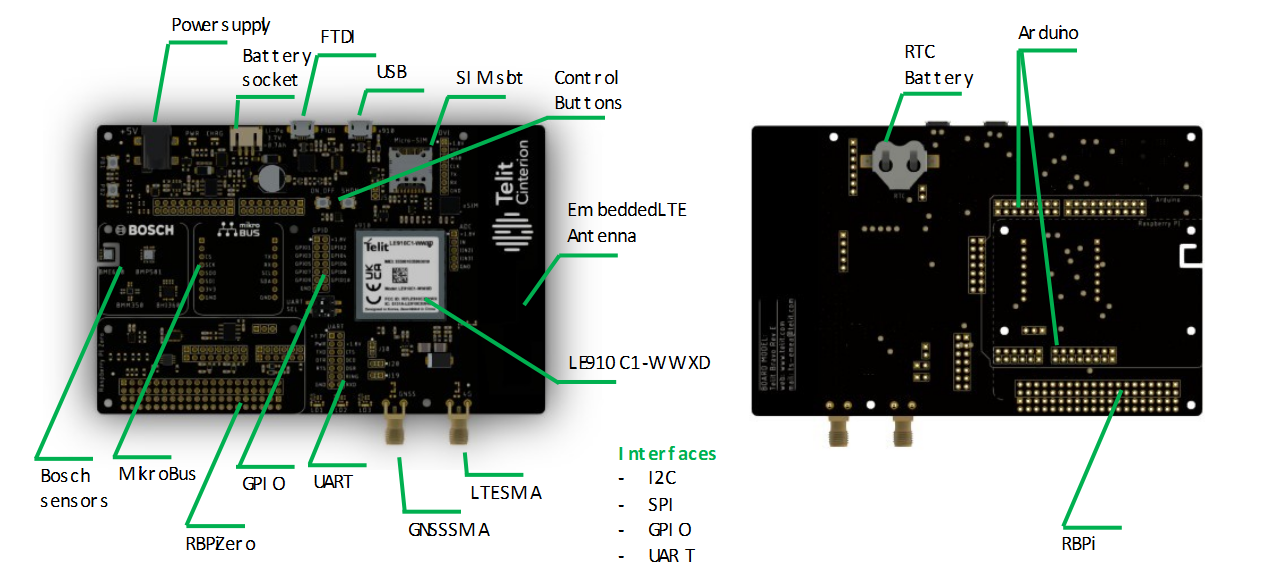
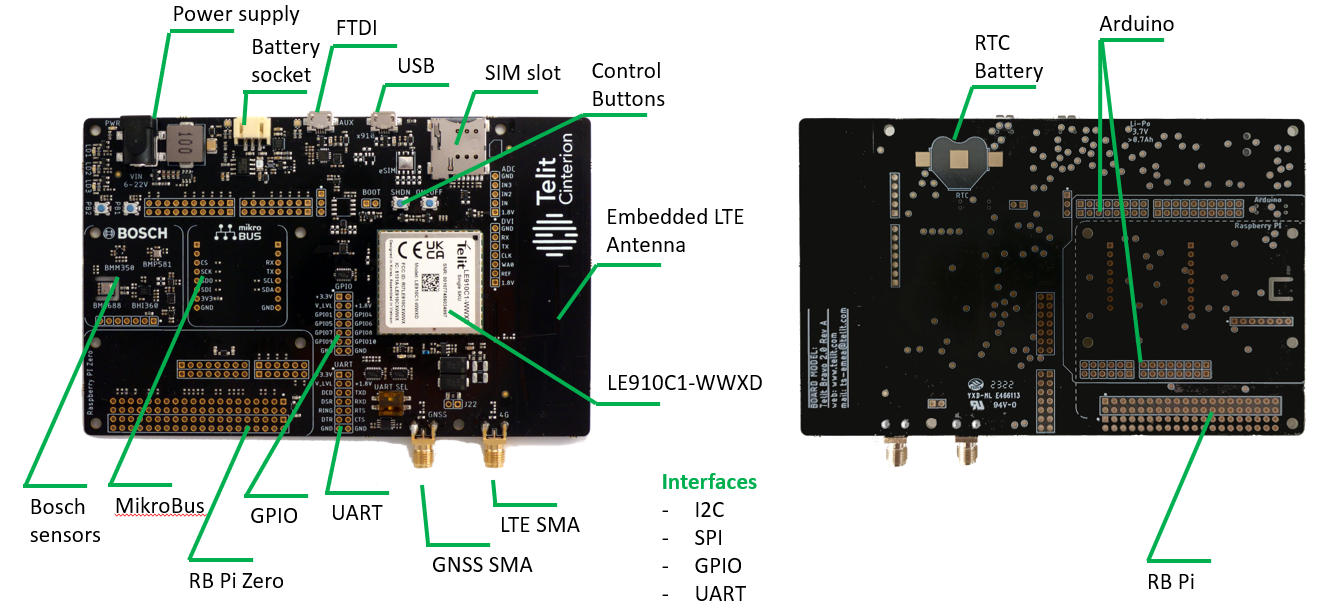
review of the guide with latest Bravo2.0

diff --git a/get-started-guide-bravo-aws.md b/get-started-guide-bravo-aws.md
@@ -1,25 +1,25 @@
 # Getting started guide for Telit Cinterion Bravo rapid development kit with AWS IoT ExpressLink
 
-# Document information
+## Document information
 
-## Naming conventions
+### Naming conventions
 
-## Glossary
+### Glossary
 | Term       | Description                                       |
 |------------|---------------------------------------------------|
 | APN        | Access Point Name - used to define the LTE access |
 | 
 
-## Revision history
+### Revision history
 
 | Version | Date       | Notes       |
 |---------|------------|-------------|
 | 1.0     | 2023-03-06 | First issue |
 
 
-# Overview
+## Overview
 
-# Hardware Description
+## Hardware Description
 
 Bravo development kit with AWS IoT Expresslink LE910C1-WWXD comes with a variety of hardware components and features. 
 1. LE910C1-WWXD AWS LTE Cat.1 modem with pre-injected credentials and ExpressLink qualified firmware
@@ -39,11 +39,10 @@ Bravo development kit with AWS IoT Expresslink LE910C1-WWXD comes with a variety
 1. on-off and reset buttons
 1. SIM slot
 
-The following image schematizes the main components. 
-![Alt text](images/bravo-interfaces.svg)
+The following image schematizes the main components.
+![Alt text](images/bravo-interfaces.png)
 
-
-## Datasheet
+### Datasheet
 
 You can find the Bravo AWS product brief, the FAQ and the Quick start guide here: https://www.telit.com/bravo-evk-download-zone/
 
@@ -51,7 +50,7 @@ Some of the guides and manuals require login access. Please register here https:
 
 When you fill up the form, if you do not have a Telit Cinterion Point of Contact, please specify **Bravo AWS IoT ExpressLink**
 
-## Standard kit Contents
+### Standard kit Contents
 
 Bravo AWS IoT ExpressLink comes with a set of accessories to simplify the developer experience without the need of third party components.
 
@@ -63,7 +62,7 @@ Content of the package:
 1. SIM card
 1. BERG connector kit
 
-## User Provided items
+### User Provided items
 
 You need to connect the Bravo with AWS IoT ExpressLink to a host processor.
 As a mere example you can use:
@@ -72,31 +71,42 @@ As a mere example you can use:
 * PC (Windows/Linux/Mac)
 * Power adapter, barrel center positive 2.1 mm / 5mm with 10W min e.g. https://www.amazon.com/SoulBay-Universal-Multi-Voltage-Selectable-Electronics/dp/B01N2K48HR/
 
-
-
-## 3rd Party purchasable items
+### 3rd Party purchasable items
 
 Additional MikroBus sensors and peripherals to complement the existing range of embedded sensors
 
+## Set up your hardware
 
-
-# Set up your hardware
-
-In this get started example we suggest to use a PC for a quick check of the capabilities of Bravo AWS IoT ExpressLink. 
+In this get started example we suggest to use a PC for a quick check of the capabilities of Bravo AWS IoT ExpressLink.
 
 However, any other external processor can be connected to the Bravo board: Follow the Bravo get started guide to configure appropriately.
 Please refer to please see https://www.telit.com/bravo-evk-download-zone/ doc: Telit_Bravo_Quick_Start_Guide for full details on how to connect to the Bravo Board
 
+When using the PC, configure the DIP switch as shown in the table
+
+| Switch # | off |  on |
+|----------|-----|-----|
+| 1        |  x  |     |
+| 2        |     |  x  |
+
+To locate the DIP switch please refer to the picture ![DIP switch configuration](images/switch_conf.png)
+
+In case you want to use the Raspberry, this is the configuration of the DIP Switch
+
+| Switch # | off |  on |
+|----------|-----|-----|
+| 1        |     |  x  |
+| 2        |  x  |     |
 
 1. plug the SIM card provided, which has (almost) global coverage. If you are willing to use a different SIM card please make sure your region/country supports LTE Cat.1 connectivity and SIM PIN is disabled
-2. connect the Bravo board to your PC
+2. connect the Bravo board to your PC to the AUX micro USB
+![USB and SIM connection](images/connect-sim.png)
+
 3. connect the power supply  
 4. press and hold for 5 seconds the on/off button 
 5. on Windows, take note of the com ports and make sure you connect to the first com port available. Please see https://www.telit.com/bravo-evk-download-zone/ doc: Telit_Bravo_Quick_Start_Guide section 3
 
-
-
-# Set up host machine
+## Set up host machine
 
 To establish a serial connection between your host machine and the *Bravo AWS IoT ExpressLink*, you must install the USB to UART Bridge Virtual Communication Port drivers. You can download these drivers from [Telit IoT developer Resources - USB Drivers](https://www.telit.com/evkevb-drivers/). For more information, see the driver user guide included in the zip archive. 
 Open a terminal application for your host machine (e.g., TeraTerm for Windows, CoolTerm for Mac) and select the port corresponding to the evaluation kit. Configure the terminal application as follows:
@@ -106,62 +116,73 @@ Open a terminal application for your host machine (e.g., TeraTerm for Windows, C
 | Bits:            | 8             |
 | Parity:          | None          |
 | Stop:            | 1             |
-| Flow control:	   | None          |
+| Flow control:    | None          |
 | Local Echo:      | Yes           |
-
 
 For a quick check, in the terminal window type: `AT` followed by `<return>`. If you receive the answer `OK`, Congratulations! You have successfully connected the evaluation kit to your host machine.
 
-Keep the terminal open, as it is needed for subsequent steps.
+### Mobile Network Operator specific configurations
+The Bravo LE910C1-WWXD is a worldwide module capable of connecting to a comprehensive range of Mobile Network Operators (MNO).
 
-# Raspberry setup
+However, some MNOs require special configuration for the module to properly work on their network.
+
+Make sure that your device is configured for the correct Mobile Network Operator.
+
+Issue:
+
+* `AT+DIAG TELIT AT#FWSWITCH=40` for a generic operator
+* `AT+DIAG TELIT AT#FWSWITCH=0` for AT&T
+* `AT+DIAG TELIT AT#FWSWITCH=1` for Verizon Wireless
+
+The module will reboot and after a short time it will be possible to connect again
+
+After the reboot, please configure the APN `AT+CONF APN=nxt20.net`
+
+## Raspberry setup
+
 Make note of the GPIOs exposed on the Raspberry Pi pinout
 
-| Bravo Pinout | Signal | I/O |
-|--|--| --|
-| 15 | TX | Output |
-| 14 | RX | Input |
-| 23 | RESET | Output |
-| 27 | EVENT | Input |
-| 22 | WAKE | Output |
+| Bravo Pinout | Signal | I/O | Raspberry Pin |
+|--|--|--| --|
+| N15 | TX | Output | RPI TX |
+| M15  | RX | Input | RPI RX |
+| C11 - GPIO 04 | RESET | Output | GPIO 24 |
+| L15 - GPIO 09 | EVENT | Input | GPIO 25 |
+| G15 - GPIO 10 | WAKE | Output | GPIO 26 |
 
 Make sure your script is using the right GPIOs to interact with Bravo ExpressLink
 
-# Run the quick connect demo application
+## Run the quick connect demo application
 
 The Quick Connect demo application allows you to establish a connection with AWS IoT, all in the space of a few minutes; no dependencies to install, no source code to download and build, and no AWS account required. To run the demo, follow the below steps:
 
-1.	If you opened a terminal application in the previous step, be sure to disconnect that application from the serial port. 
-1.	Download the Quick Connect executable:
-    1.	[Download for Mac](https://quickconnectexpresslinkutility.s3.us-west-2.amazonaws.com/QuickConnect_v1.9_macos.x64.tar.gz)
-    1.	[Download for Windows](https://quickconnectexpresslinkutility.s3.us-west-2.amazonaws.com/QuickConnect_v1.9_windows.x64.zip)
-    1.	[Download for Linux](https://quickconnectexpresslinkutility.s3.us-west-2.amazonaws.com/QuickConnect_v1.9_linux.x64.tar.gz)
-1.	Unzip the package. You will see a config.txt file. Open this and enter the serial port corresponding to the evaluation kit (for example, COM14, /dev/cu.usbserial-12345, and so on) in the serial port field.
-1.	For wifi kits, enter your wifi credentials in the SSID and Passphrase fields. For cellular kits, you may leave this blank.
-1.	Run the "Start_Quick_Connect" executable.
+1. If you opened a terminal application in the previous step, be sure to disconnect that application from the serial port.
+1. Download the Quick Connect executable:
+    1. [Download for Mac](https://quickconnectexpresslinkutility.s3.us-west-2.amazonaws.com/QuickConnect_v1.9_macos.x64.tar.gz)
+    1. [Download for Windows](https://quickconnectexpresslinkutility.s3.us-west-2.amazonaws.com/QuickConnect_v1.9_windows.x64.zip)
+    1. [Download for Linux](https://quickconnectexpresslinkutility.s3.us-west-2.amazonaws.com/QuickConnect_v1.9_linux.x64.tar.gz)
+1. Unzip the package. You will see a config.txt file. Open this and enter the serial port corresponding to the evaluation kit (for example, COM14, /dev/cu.usbserial-12345, and so on) in the serial port field.
+1. For wifi kits, enter your wifi credentials in the SSID and Passphrase fields. For cellular kits, you may leave this blank.
+1. Run the "Start_Quick_Connect" executable.
 
-The demo will connect to AWS IoT and give you a URL that you can use to visualize data flowing from the device to the cloud using AT+SEND commands. The demo will run for up to two minutes, and afterwards, you will be able to type `AT+SEND` commands yourself and see the data coming in on the visualizer. 
+The demo will connect to AWS IoT and give you a URL that you can use to visualize data flowing from the device to the cloud using AT+SEND commands. The demo will run for up to two minutes, and afterwards, you will be able to type `AT+SEND` commands yourself and see the data coming in on the visualizer.
+
+>**Before starting QuickConnect make sure you disconnected from the serial terminal**
 
 Start QuickConnect
+
 
 ![Quick connect start](images/quickconnect_1.png)
 
 Enter "Y" to save an html file inside the working directory of QuickConnect
 
-
-
-
 Click on the link, a browser window will open. This page, called **Quick Connect Dashboard**, will be populated with data sent from your Bravo AWS IoT ExpressLink
 
 ![Click Me page - Dashboard](images/quickconnect_2.png)
 
-
-
 QuickConnect is now sending data to the Dashboard
 
-![QuickConnect sends data](images/quickconnect_3.png) 
-
-
+![QuickConnect sends data](images/quickconnect_3.png)
 
 You can see in the **Quick Connect Dashboard** that data is actually sent to IoT Core and visually presented in the dashboard.
 
@@ -169,47 +190,46 @@ You can see in the **Quick Connect Dashboard** that data is actually sent to IoT
 
 The following sections will guide you through next steps when you will set up your AWS account and interact with the modules to send and receive data directly with your AWS account.
 
-
-# Setup your AWS account and permissions for IoT development
+## Setup your AWS account and permissions for IoT development
 
 Refer to the instructions at [Set up your AWS Account](https://docs.aws.amazon.com/iot/latest/developerguide/setting-up.html).  Follow the steps outlined in these sections to create your account and a user and get started:
 
-1.	Sign up for an AWS account and 
-2.	Create a user and grant permissions. 
-3.	Open the AWS IoT console
+1. Sign up for an AWS account and
+2. Create a user and grant permissions.
+3. Open the AWS IoT console
 
 Pay special attention to the Notes.
 
-# Registering an AWS IoT ExpressLink to your development account
+## Registering an AWS IoT ExpressLink to your development account
 
 To create an IoT *Thing* and add it to your account we will need to retrieve the AWS IoT ExpressLink module Thing Name and its corresponding certificate. Follow the below steps:
 
-1.	Open the [AWS IoT Console](http://console.aws.amazon.com/iot).  Select **Manage** then select **Things**.  Choose **Create things**, select **Create single thing**, click **Next**.
+1. Open the [AWS IoT Console](http://console.aws.amazon.com/iot).  Select **Manage** then select **Things**.  Choose **Create things**, select **Create single thing**, click **Next**.
 ![Create new thing](images/thing_1.png)
-2.	In the terminal application type the command:  `AT+CONF? ThingName`
-3.	Copy the returned string (a sequence of alphanumeric characters) from terminal. On the **Specify thing properties** page, paste the copied string from terminal into the **Thing name** under Thing properties on the console. Leave other fields as default, then click **Next**.
+2. In the terminal application type the command:  `AT+CONF? ThingName`
+3. Copy the returned string (a sequence of alphanumeric characters) from terminal. On the **Specify thing properties** page, paste the copied string from terminal into the **Thing name** under Thing properties on the console. Leave other fields as default, then click **Next**.
 ![Your Thing name](images/thing_2.png)
-4.	In the terminal application type the command: `AT+CONF? Certificate pem`
-5.	Copy the returned string (a longer sequence of alphanumeric symbols), save into a text file on your host machine as **“ThingName.cert.pem”**. 
+4. In the terminal application type the command: `AT+CONF? Certificate pem`
+5. Copy the returned string (a longer sequence of alphanumeric symbols), save into a text file on your host machine as **“ThingName.cert.pem”**.
 
 ![Certificate sample](images/cert_1.png)
 
-6.	On the Configure device certificate page, select **Use my certificate**, choose **CA is not registered with AWS IoT**.
+6. On the Configure device certificate page, select **Use my certificate**, choose **CA is not registered with AWS IoT**.
 
 ![Use My certificate](images/thing_3.png)
 
-7.	Under **Certificate**, select Choose file. Double click on “**ThingName.cert.pem**” file in step 5.
+7. Under **Certificate**, select Choose file. Double click on “**ThingName.cert.pem**” file in step 5.
 
 ![Choose File](images/thing_4.png)
 
-8.	Under **Certificate Status**, select **Active**
-9.	Click **Next** to **Attach policies to certificate**.
-10.	Under **Secure**, select **Policies**. 
-11.	Click **Create** to Create a policy. Put policy name (e.g. IoTDevPolicy) and click **Advanced mode**. 
+8. Under **Certificate Status**, select **Active**
+9. Click **Next** to **Attach policies to certificate**.
+10. Under **Secure**, select **Policies**. 
+11. Click **Create** to Create a policy. Put policy name (e.g. IoTDevPolicy) and click **Advanced mode**. 
 
 ![Create Policy](images/policy_1.png)
 
-12.	Copy the below section into the console.
+12. Copy the below section into the console.
 
 `{ "Version": "2012-10-17", "Statement": [ { "Effect": "Allow", "Action": "*", "Resource": "*" } ] }`
 
@@ -222,25 +242,25 @@ Click Save to complete the Thing creation
 
 ![Attach Policy](images/attach_policy1.png)
 
-14.	In the AWS IoT Console, choose **Settings**, copy your account *Endpoint* string in *Device data endpoint*.
+14. In the AWS IoT Console, choose **Settings**, copy your account *Endpoint* string in *Device data endpoint*.
 
 ![Endpoint](images/iot_settings_1.png)
 
-15.	In the terminal application type the command: `AT+CONF Endpoint=<your endpoint string here>`.
+15. In the terminal application type the command: `AT+CONF Endpoint=<your endpoint string here>`.
 
-## Completion
+### Completion
 
 Congratulations! You have completed the registration of the evaluation kit as a Thing in your IoT account. You will not need to repeat these steps the next time you connect, as the AWS IoT ExpressLink module will remember its configuration and will be ready to connect to your AWS account automatically
 
-#	Connecting and Interacting with AWS cloud
+## Connecting and Interacting with AWS cloud
 
-We will use the MQTT client in the AWS IoT console to help us monitor the communication between your evaluation kit and the AWS Cloud. 
+We will use the MQTT client in the AWS IoT console to help us monitor the communication between your evaluation kit and the AWS Cloud.
 
-1.	Navigate to the AWS IoT console (https://console.aws.amazon.com/iot/).
-2.	To open the MQTT client, in the navigation pane, choose **Test** and then **MQTT Test Client**.
-3.	In _Subscribe to a topic_, enter `#`, and then click **Subscribe**
+1. Navigate to the AWS IoT console (https://console.aws.amazon.com/iot/).
+2. To open the MQTT client, in the navigation pane, choose **Test** and then **MQTT Test Client**.
+3. In *Subscribe to a topic*, enter `#`, and then click **Subscribe**
 
-## Connecting
+### Connecting
 
 Before establishing a connection, you need to set up the **APN** to create the connection.
 Issue the command `at+conf APN=nxt20.net`
@@ -250,7 +270,7 @@ After a short time, you will receive the message `OK 1 CONNECTED`
 
 Congratulations! You have successfully connected to your AWS cloud account
 
-## Sending data to the AWS cloud
+### Sending data to the AWS cloud
 
 To send “Hello World!” message, first enter the command `AT+CONF Topic1=data`
 
@@ -262,7 +282,7 @@ After a short time, you will receive the message `OK`
 
 You should see the “Hello World!” message appear on the AWS IoT console under the topic “data” of the **MQTT Test Client**.
 
-## Receiving data and commands from the cloud
+### Receiving data and commands from the cloud
 
 To receive messages, first enter the command: `AT+CONF Topic1=MyTopic`
 
@@ -276,44 +296,40 @@ On your terminal, enter the command: `AT+GET1`
 
 You will receive the message `OK Hello from AWS IoT console`
 
-# Perform Firmware Over-The-Air Update for AWS IoT ExpressLink
+## Perform Firmware Over-The-Air Update for AWS IoT ExpressLink
 
-## Prerequisites
+### Prerequisites
 
 Download the latest signed image firmware from [Telit Cinterion Download Zone](https://telit.com/download-zone). Along with the firmware image, you will download additional signing metadata such as:
 
-1.	Signature hashing algorithm used (Example: SHA-256)
-2.	Signature encryption algorithm used (Example: ECDSA)
-3.	Actual signature encoded using the base64 encoding format.
-4.	The path name (a string) which identifies the location where the certificate is provisioned in the ExpressLink (optional)
-5.	Create an OTA Update role in your account using the steps outlined [here](https://docs.aws.amazon.com/freertos/latest/userguide/create-service-role.html).
+1. Signature hashing algorithm used (Example: SHA-256)
+2. Signature encryption algorithm used (Example: ECDSA)
+3. Actual signature encoded using the base64 encoding format.
+4. The path name (a string) which identifies the location where the certificate is provisioned in the ExpressLink (optional)
+5. Create an OTA Update role in your account using the steps outlined [here](https://docs.aws.amazon.com/freertos/latest/userguide/create-service-role.html).
 
 For further information please check [Telit Cinterion Download Zone](https://telit.com/download-zone) or contact [TS-EMEA](mailto:ts-emea@telit.com).
 
-## Creating a Firmware Update job in AWS IoT
+### Creating a Firmware Update job in AWS IoT
 
  Please refer to the AWS IoT ExpressLink [Getting Started Guide - Create a firmware update job in AWS IoT](https://docs.aws.amazon.com/iot-expresslink/latest/gettingstartedguide/elgsg-setup-ota-update.html#elgsg-setup-ota-update-create)
 
-
-## Monitoring and Applying new firmware update for ExpressLink
+### Monitoring and Applying new firmware update for ExpressLink
 
 Please refer to the AWS IoT ExpressLin [Getting Started Guide - Monitor and Apply a new firmware update for ExpressLink](https://docs.aws.amazon.com/iot-expresslink/latest/gettingstartedguide/elgsg-setup-ota-update.html#elgsg-setup-ota-update-monitor)
 
-
-# Troubleshooting
+## Troubleshooting
 
 > Please make sure you have checked the [AWS IoT ExpressLink Documentation](https://docs.aws.amazon.com/iot-expresslink/) and [AWS IoT ExpressLink Examples and Training Material](https://github.com/aws/iot-expresslink)
 
-## Cannot connect
+### Cannot connect
 
 1. Make sure you inserted the SIM
 2. Check SIM and make sure PIN is not required: `at+diag TELIT AT+CPIN?` should return `+CPIN: READY<CR>OK`
 
-## QuickConnect is not working
+### QuickConnect is not working
 
 1. Make sure you've downloaded the right software, depending on your Operating System
 2. If the program terminates right after "AWS Session Initialized" make sure that your PC can establish a connection to AWS: after configuring your AWS CLI try `aws iot list-things`. If it doesn't work please check with your IT admin.
 
 If you cannot find an answer to your issue, please contact [TS-EMEA](mailto:ts-emea@telit.com)
-
-
